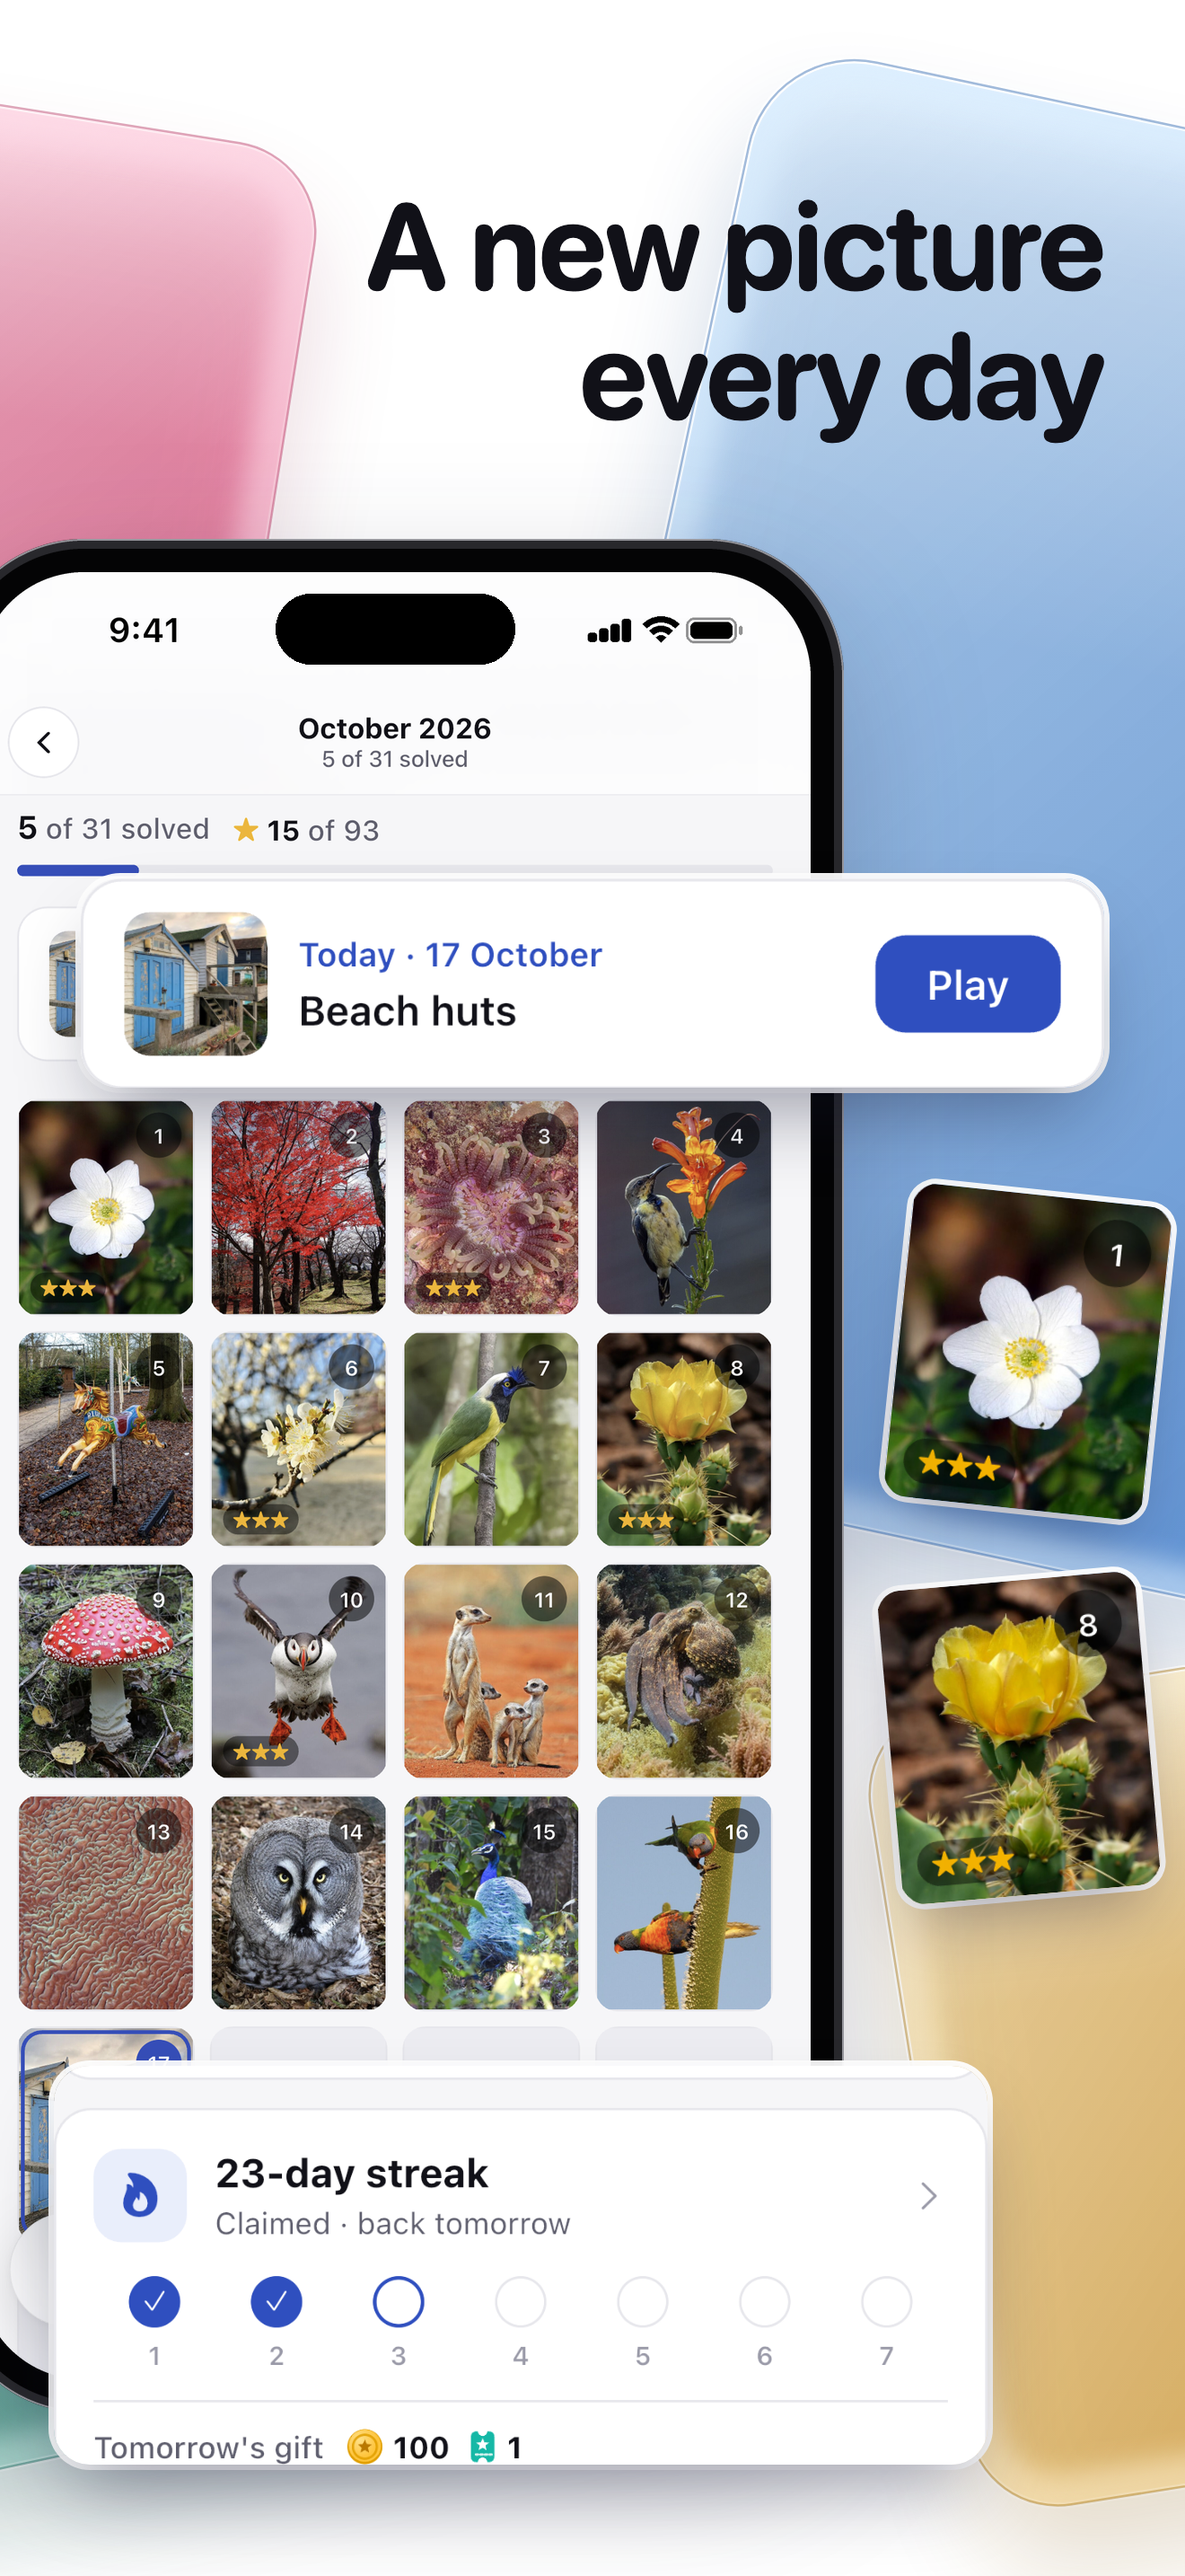
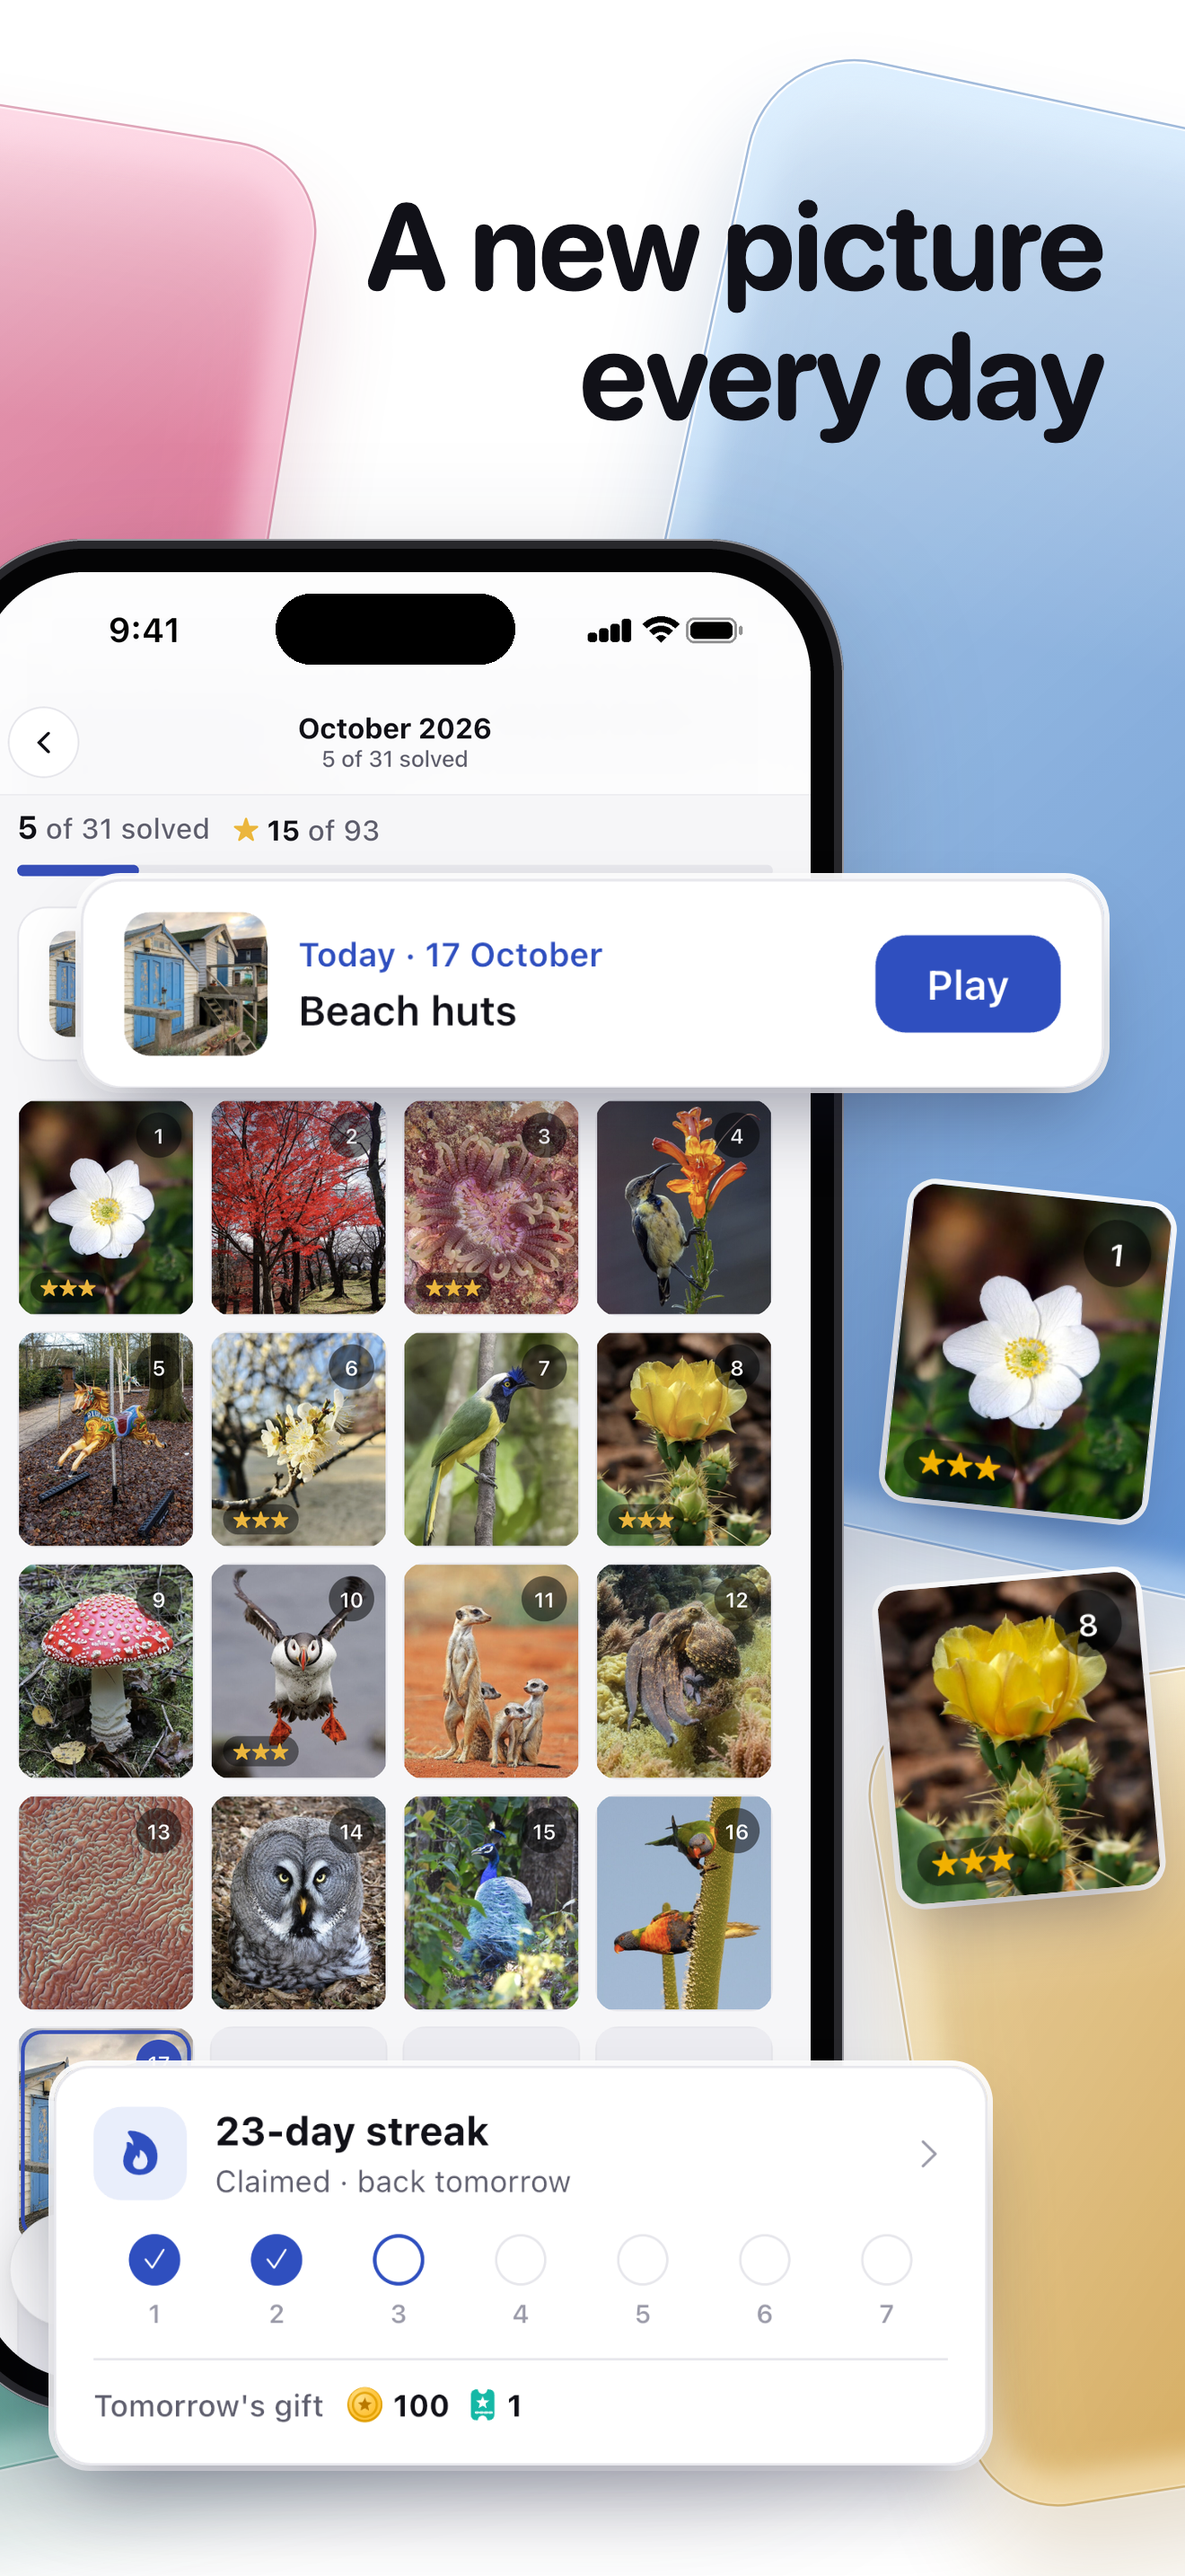
Custom product pages and header art on the 2.0.0 captures
Crop boxes checked on the new captures: the toolbar (Shuffle, taller bar),
the August and Alpine Lakes tiles, the giant overview map, the hero's
joined groups (4x4 board), the corgi in the middle of its Squares 4x4
board, the My Puzzles photo tiles, and Home's streak card (Home's layout
moved; the default set's slide 4 recomposed with it). The winter search
art focuses on Live events again.

The nature page's Library capture is back as 28_library_nature (the
Library on its Nature chip, taken with the Library captures or alone).
The store player is named Mia from the start (Home greets her).

All 8 pages composed (48 slides, headline contrast 4.81 to 10.86) and the
header and search art of the default page and the 8 pages (27 files,
contrast 16.45 to 18.80); store/custom/ is git-ignored, so upload from
this checkout. Nothing uploaded.

Changed region(s): [[0.0932, 0.8068, 0.497, 0.962], [0.0932, 0.8068, 0.1553, 0.8999]]

diff --git a/integration_test/store_screenshots_test.dart b/integration_test/store_screenshots_test.dart
@@ -124,8 +124,8 @@ const leagueAvatars = ['wave', 'cake', 'globe', 'bike', 'coffee', 'umbrella', 'k
 const coopPuzzle = 'p-00df45e91273'; // Tropical Beaches: Bora Bora lagoon
 const coopFriends = {'stage-ava': ('Ava', 'flower'), 'stage-leo': ('Leo', 'sun')};
 
-/// The store player's name where other players see it (the co-op player list), instead of the random
-/// guest name; the name the design QA presets use. Its initial differs from the friends' (M, A, L).
+/// The store player's name (Home's greeting, the co-op player list) instead of a random guest name; the
+/// name the design QA presets use. Its initial differs from the co-op friends' (M, A, L).
 const storePlayerName = 'Mia';
 
 class _StageCoop implements CoopBackend {
@@ -422,6 +422,14 @@ void main() {
     await settle(tester, 2500);
   }
 
+  /// The custom product page "Nature and animals": the Library on its Nature chip (picked the way a
+  /// link does), so the grid is all nature packs.
+  Future<void> natureLibrary(WidgetTester tester) async {
+    ProviderScope.containerOf(tester.element(find.byType(MaterialApp))).read(libraryFilterProvider.notifier).select('Nature');
+    await settle(tester, 3000);
+    await shot(tester, '28_library_nature');
+  }
+
   /// Sets the player's XP (and the level it gives), avatar and streak through the save sync, so the
   /// screenshots show the player growing from slide to slide.
   Future<void> setProgress(WidgetTester tester, {int? xp, String? avatar, int? streak}) async {
@@ -613,6 +621,9 @@ void main() {
     await tapText(tester, 'Continue');
     await tapText(tester, 'Start playing', ms: 5000);
     await settle(tester, 6000); // let catalog + images load
+    // The store player has a name (Home greets it), not a random guest name.
+    ProviderScope.containerOf(tester.element(find.byType(MaterialApp))).read(syncProvider.notifier).enqueue(SyncOp.put({'displayName': storePlayerName}));
+    await settle(tester, 1500);
 
     // Claim the daily gift so the streak card shows a 1-day streak.
     if (await tapIfShown(tester, 'Claim')) {
@@ -817,6 +828,10 @@ void main() {
         await libraryPacksFirst(tester);
         await shot(tester, '15_library');
       }
+      if (want('28_library_nature')) {
+        await go(tester, '/library', ms: 4500);
+        await natureLibrary(tester);
+      }
       if (want('22_social_league')) {
         await setProgress(tester, xp: 9000, avatar: 'diamond');
         await go(tester, '/social', ms: 4500);
@@ -940,6 +955,7 @@ void main() {
     await shot(tester, '15_library');
     await tester.drag(find.byType(Scrollable).first, const Offset(0, 1500));
     await settle(tester, 1200);
+    await natureLibrary(tester);
     // The Daily chip sits past the screen's edge among the other chips; pick it the way a link does
     // (the row then scrolls it into view).
     ProviderScope.containerOf(tester.element(find.byType(MaterialApp))).read(libraryFilterProvider.notifier).select(LibraryFilter.daily);

diff --git a/tools/store/custom_pages.py b/tools/store/custom_pages.py
@@ -48,13 +48,13 @@ EDITABLE_STATES = ("PREPARE_FOR_SUBMISSION", "REJECTED")
 IN_REVIEW_STATES = ("READY_FOR_REVIEW", "WAITING_FOR_REVIEW", "IN_REVIEW")
 LIVE_STATES = ("ACCEPTED", "APPROVED")
 
-# Named crop boxes (capture px, 1320 x 2868) for the custom slides. Check them on a coordinate grid after new
-# captures; the default set's own boxes (EVENT_CARD, PODIUM, STREAK_CARD) come from compose_glass.py.
+# Named crop boxes (capture px, 1320 x 2868) for the custom slides, checked on the 2026-10-17 captures. Check them
+# on a coordinate grid after new captures; the default set's own boxes (EVENT_CARD, PODIUM, STREAK_CARD) come from compose_glass.py.
 BOXES = {
-    "TOOLBAR": (14, 2578, 1306, 2780),       # Shuffle, Peek, Magic, Hint on any board
-    "ALPINE_TILE": (58, 604, 630, 1340),     # Alpine Lakes tile in 28_library_more
-    "AUGUST_TILE": (58, 1596, 630, 2340),    # August 2026 tile in 16_library_daily
-    "GIANT_MAP": (992, 636, 1262, 1048),     # overview map in 30_giant_zoom
+    "TOOLBAR": (30, 2556, 1290, 2762),       # Shuffle, Peek, Magic, Hint on any board, with a little page around
+    "ALPINE_TILE": (60, 1618, 642, 2362),    # Alpine Lakes tile in 28_library_nature (the Library on its Nature chip)
+    "AUGUST_TILE": (60, 1618, 642, 2362),    # August 2026 tile in 16_library_daily
+    "GIANT_MAP": (989, 969, 1260, 1244),     # overview map in 30_giant_zoom, its white frame included
     "TODAY_CARD": (60, 530, 1260, 775),      # today's picture on the daily calendar (18_daily_month_grid)
 }
 

diff --git a/tools/store/compose_glass.py b/tools/store/compose_glass.py
@@ -51,7 +51,7 @@ DAILY = "18_daily_month_grid"
 # The world-day event card on Quests and the leaderboard's podium (capture px).
 EVENT_CARD = (60, 1608, 1260, 2532)
 PODIUM = (60, 720, 1260, 1200)
-STREAK_CARD = (60, 1485, 1260, 1997)  # Home's streak card in 31_home_streak
+STREAK_CARD = (60, 1539, 1260, 2052)  # Home's streak card in 31_home_streak (2026-10-17 Home layout)
 # Play together (store capture scene with scripted players, Bora Bora lagoon in Cards 7x7 Master): a shared
 # board mid-build with the players chip in the top bar, Leo's purple "L" on the cards he moved and
 # Ava's orange "A" on the card she holds; and the player list (avatars in their colour rings, Host /

diff --git a/store/README.md b/store/README.md
@@ -69,7 +69,8 @@ the same names with a `_light` suffix):
 | `22_social_league.png` | Social, league leaderboard |
 | `23_wheel.png` | Lucky Wheel sheet |
 | `24_profile.png` | Profile |
-| `25_hero.png` ... `31_home_streak.png` | The glass set's own scenes (hero, Painting, giant board and its zoom, the dark board, Home with a 23-day streak) |
+| `25_hero.png` ... `31_home_streak.png` | The glass set's own scenes (hero, Painting, giant board and its zoom, the dark board, Home with a 23-day streak greeting Mia, the store player's name) |
+| `28_library_nature.png` | The Library on its Nature chip (the custom page Nature and animals lifts the Alpine Lakes tile) |
 | `32_coop_board.png` | Play together, the host's view of a scripted game (no live backend): Bora Bora lagoon in Cards 7x7 Master mid-build (the middle and two corners locked), the players chip, Leo's purple "L" on the card he just moved, Ava's orange "A" on the card she holds |
 | `34_coop_clean.png` | The same board just before the friends' moves, without their marks (the homepage draws live cursors on it); `boards.json` lists its locked cards as `34_coop_locked` |
 | `33_coop_players.png` | The same game's player list, opened from the players chip |
@@ -91,7 +92,7 @@ simulator, and a Python 3 with Pillow (`pip install pillow`).
    tools/dev/qa-run.sh drive --driver=test_driver/store_screenshots.dart \
      --target=integration_test/store_screenshots_test.dart \
      -d D03644FB-6169-4E87-8E0F-CCFC884FBE78
-   # only some glass-set captures (25_hero, 26_painting, 27_giant, 28_library_more), others kept:
+   # only some glass-set captures (25_hero, 26_painting, 27_giant, 28_library_nature, 32_coop_board, ...), others kept:
    #   add --dart-define=CJW_STORE_ONLY=25_hero,27_giant (about 4 minutes instead of 13)
    # the light theme, written as raw/<name>_light.png (slides 1-9 of the glass set):
    tools/dev/qa-run.sh drive --driver=test_driver/store_screenshots.dart \
